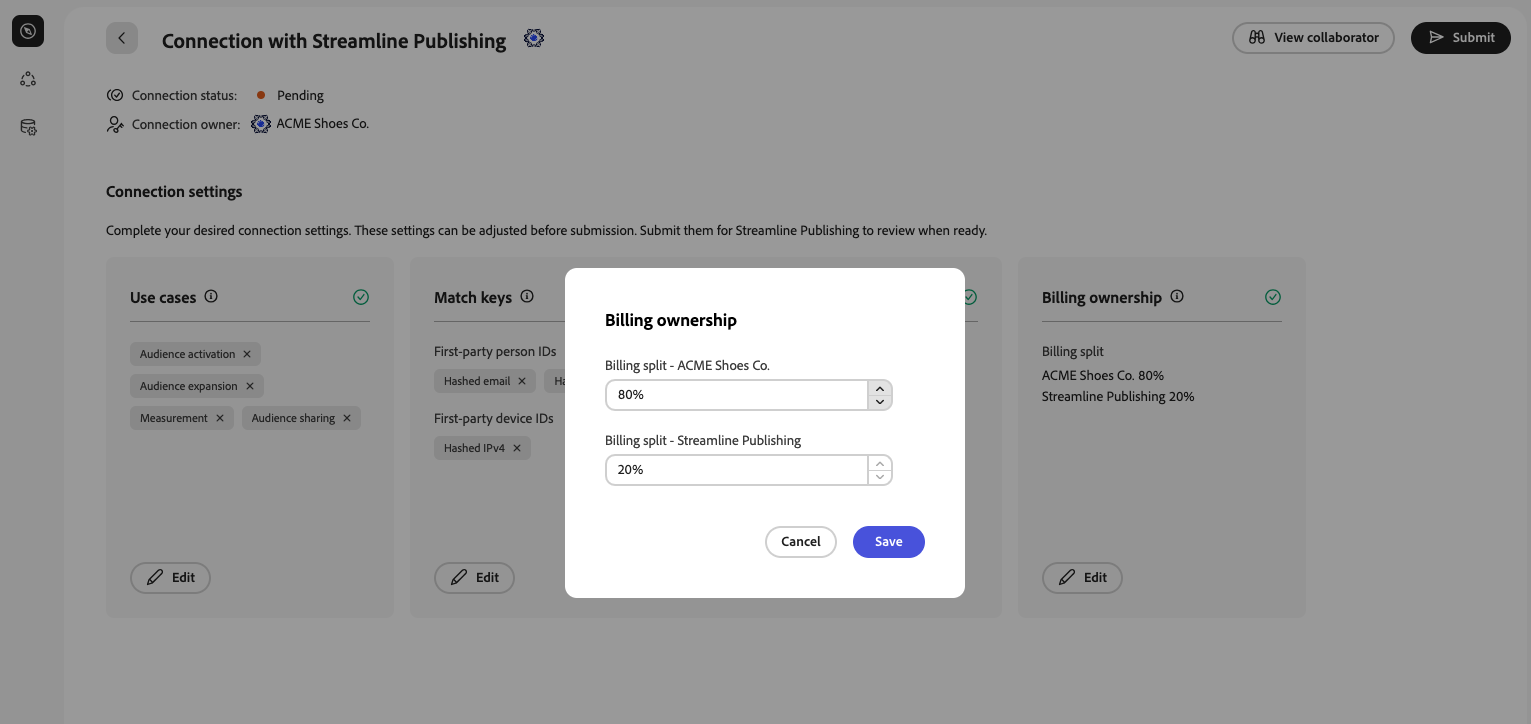
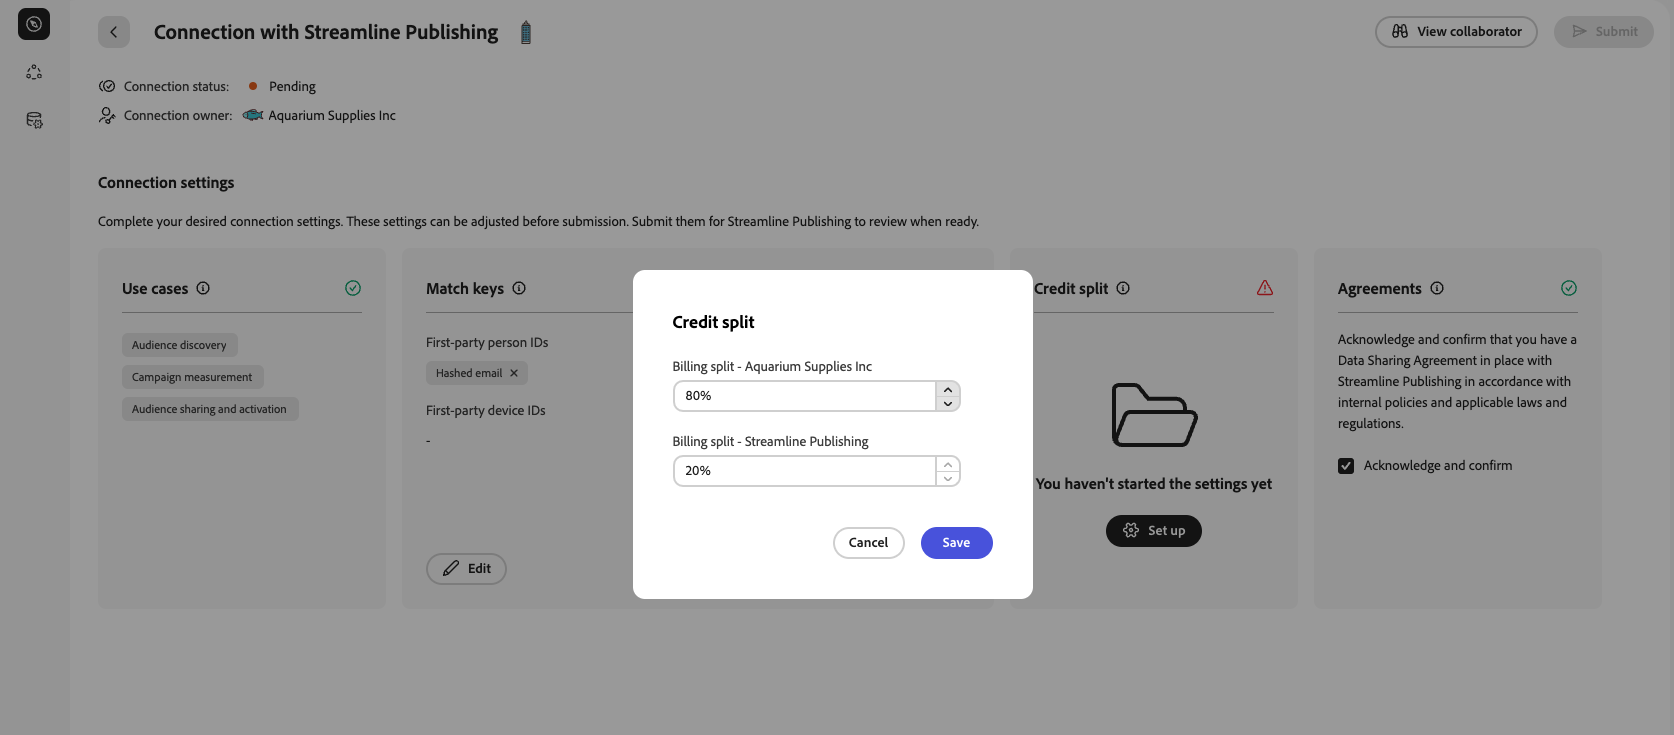
Various updates to several workflows

diff --git a/help/guide/connect-publisher-advertiser/establishing-connections.md b/help/guide/connect-publisher-advertiser/establishing-connections.md
@@ -73,9 +73,9 @@ To set up and share connection settings with your collaborator, navigate to **[!
 
 +++Use cases
 
-Use cases are prefilled with the ones that you [selected at your organizational level](/help/guide/setup/onboard-organization.md#set-up-details-use-cases). You can edit the use cases to be used in this connection. Note that in the beta release of Real-Time CDP, the use case selection has no effect on your projects.
+Use cases are prefilled with the ones that you [selected at your organizational level](/help/guide/setup/onboard-organization.md#set-up-details-use-cases).
 
-![Use cases](/help/assets/connect/establish-connection/edit-use-cases.png)
+![Use cases](/help/assets/connect/establish-connection/view-use-cases.png)
 
 +++
 
@@ -83,7 +83,7 @@ Use cases are prefilled with the ones that you [selected at your organizational 
 
 Match keys are prefilled with the ones you [selected at your organizational level](/help/guide/setup/onboard-organization.md#set-up-match-keys). You can toggle off any match keys that you do not want used in this connection, but you cannot at this point add any match keys that were not selected when setting up the organization.
 
-![Match keys](/help/assets/connect/establish-connection/edit-match-keys.png)
+![Match keys](/help/assets/connect/establish-connection/match-keys.png)
 
 +++
 
@@ -95,20 +95,18 @@ Use the credit split section to determine how the costs for the campaigns will b
 
 +++
 
-<!--
++++Agreements
 
-+++Legal agreement
+Before you can proceed with this connection, you must acknowledge that a data sharing agreement between the two parties exists. 
 
-Verify that a data sharing agreement between the two parties exists. 
+![Legal agreements.](/help/assets/connect/establish-connection/legal-agreement.png)
 
 +++
 
--->
-
 After you have made your selection, select **[!UICONTROL Submit]** to send the suggested settings to your collaborator for review.
 
-If you are receiving proposed connection settings from your collaborator, you can either **[!UICONTROL Accept]** or **[!UICONTROL Reject]** those settings. If you are rejecting connection settings, reach out to your collaborator outside of the product and discuss how they should revise the connection settings for you to accept them.
+If you are receiving proposed connection settings from your collaborator, you can either **[!UICONTROL Accept]** or **[!UICONTROL Reject]** those settings. Before accepting the connection settings, you need to acknowledge and confirm that a legal agreement is in place between you and the collaborator. If you are rejecting connection settings, reach out to your collaborator outside of the product and discuss how they should revise the connection settings for you to accept them.
 
 ## Next steps
 
-After establishing a connection with your collaborator, you or your collaborator can now [create projects](/help/guide/collaborate/manage-projects.md#create-project).
+After establishing a connection with your collaborator, you and your collaborator can now [create projects](/help/guide/collaborate/manage-projects.md#create-project).

diff --git a/help/guide/setup/onboard-audiences.md b/help/guide/setup/onboard-audiences.md
@@ -108,14 +108,14 @@ Next, provide a name and a description for you to recognize this data connection
 >[!CONTEXTUALHELP]
 >id="rtcdp_collaboration_import_audience_mapping_identity_namespaces"
 >title="Identity namespaces"
->abstract="Select an identity namespace from the standard and custom identity namespaces in your Experience Platform organization."
->additional-url="https://www.adobe.com/go/identity-standard-namespaces-en" text="Standard and identity namespaces in Experience Platform"
+>abstract="Select an identity namespace from the standard and custom identity namespaces available in your Experience Platform organization."
+>additional-url="https://experienceleague.adobe.com/en/docs/experience-platform/identity/features/namespaces#standard" text="Standard and identity namespaces in Experience Platform"
 
 >[!CONTEXTUALHELP]
 >id="rtcdp_collaboration_import_audience_mapping_profile_attributes"
 >title="Profile attributes"
->abstract="Select attributes from the Union Schema for the Profile class"
->additional-url="https://www.adobe.com/go/union-schema-ui-en" text="Union schema in Experience Platform"
+>abstract="Select attributes from the Union Schema for the Profile class in Experience Platform. This view displays attributes that are present in the Union Schema and belong to the XDM Individual Profile class."
+>additional-url="https://experienceleague.adobe.com/en/docs/experience-platform/profile/union-schemas/union-schema" text="Union schema in Experience Platform"
 
 ![Map fields screen showing source fields mapped to target fields.](/help/assets/setup/add-manage-audiences/Step-Map-Fields.png)
 

diff --git a/help/guide/collaborate/manage-projects.md b/help/guide/collaborate/manage-projects.md
@@ -11,7 +11,7 @@ exl-id: ae492846-bc0a-4422-86ca-577bcc1fa60c
 >
 >Adobe Real-Time Customer Data Platform (CDP) Collaboration is currently a beta product, available to select customers. The product and documentation are subject to change. Contact your Adobe representative to learn more.
 
-Projects are the centerpiece of your workflow in Real-Time CDP Collaboration. After you discover the collaborators that you want to work with, it's time to create a project. Use the project space to run overlap calculations to compare your audiences with your collaborators' and discover recommended audiences that you can use in campaigns. Audiences are then shared between collaborators, activated by publishers, and both parties can then view measurement reports about audience performance.
+Projects are the centerpiece of your workflow in Real-Time CDP Collaboration. After you discover and connect with the collaborators that you want to work with, it's time to create a project. Use the project space to run overlap calculations to compare your audiences with your collaborators' and discover recommended audiences that you can use in campaigns. Audiences are then shared between collaborators, activated by publishers, and both parties can then view measurement reports about audience performance.
 
 >[!TIP]
 >
